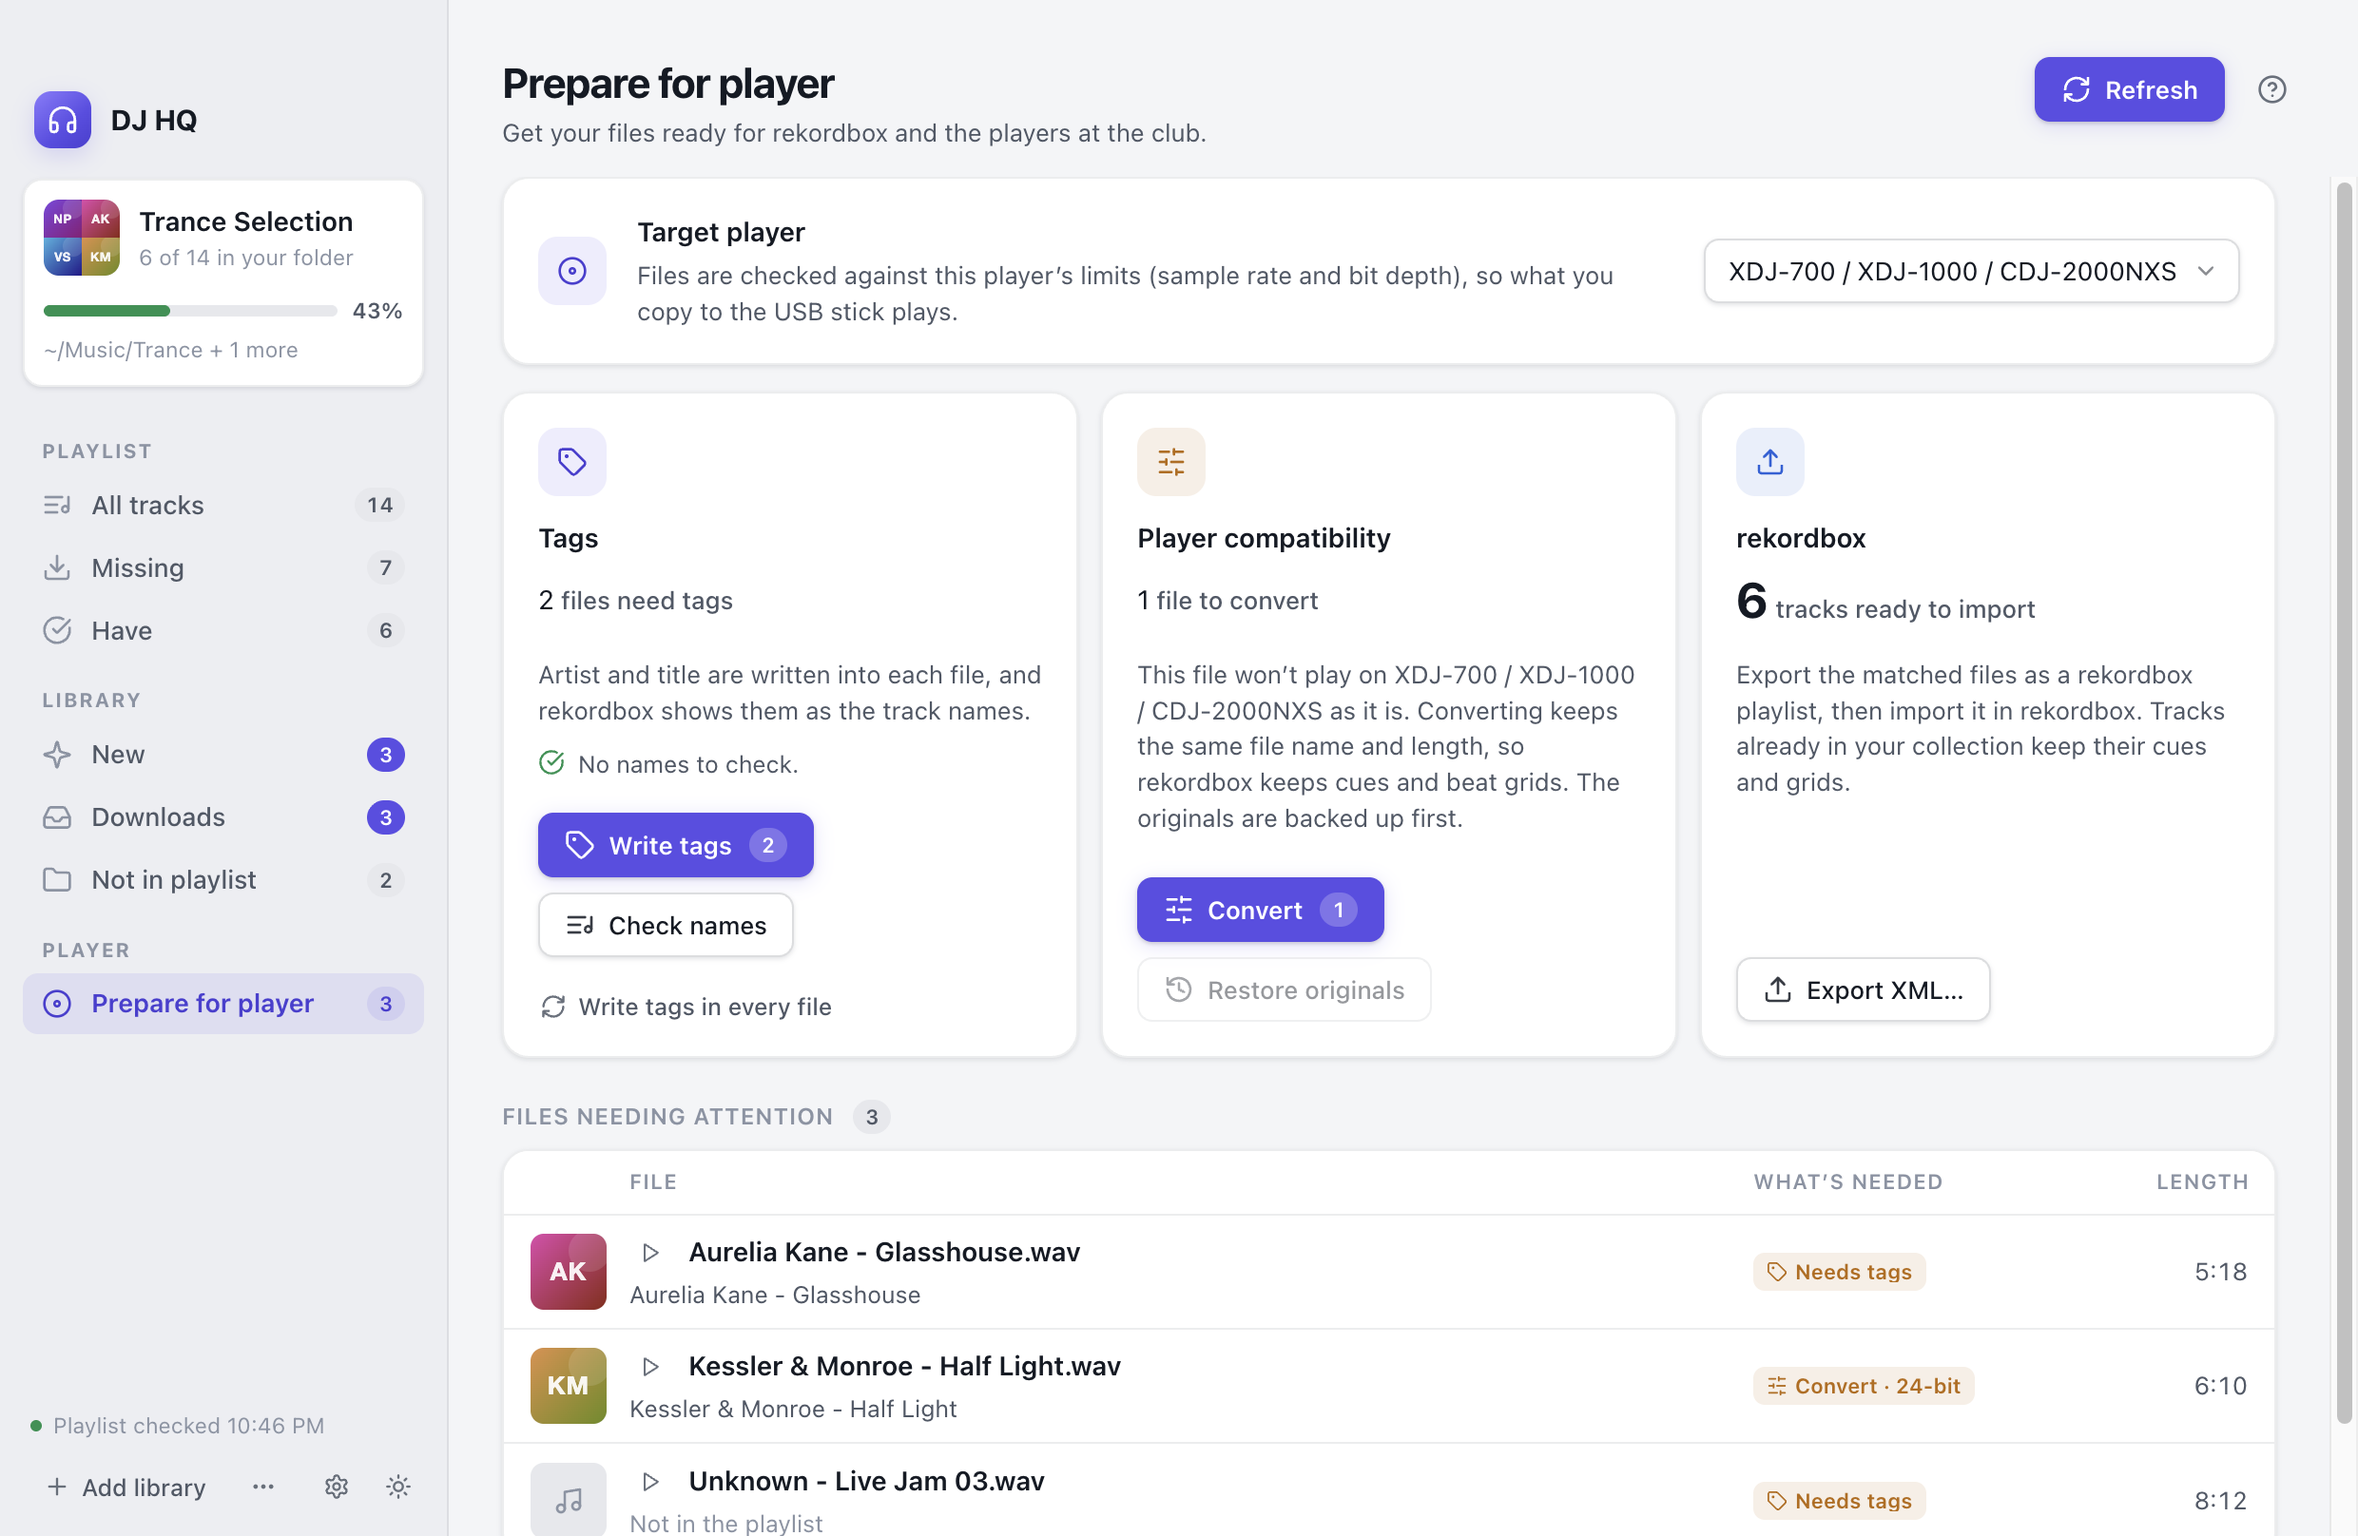
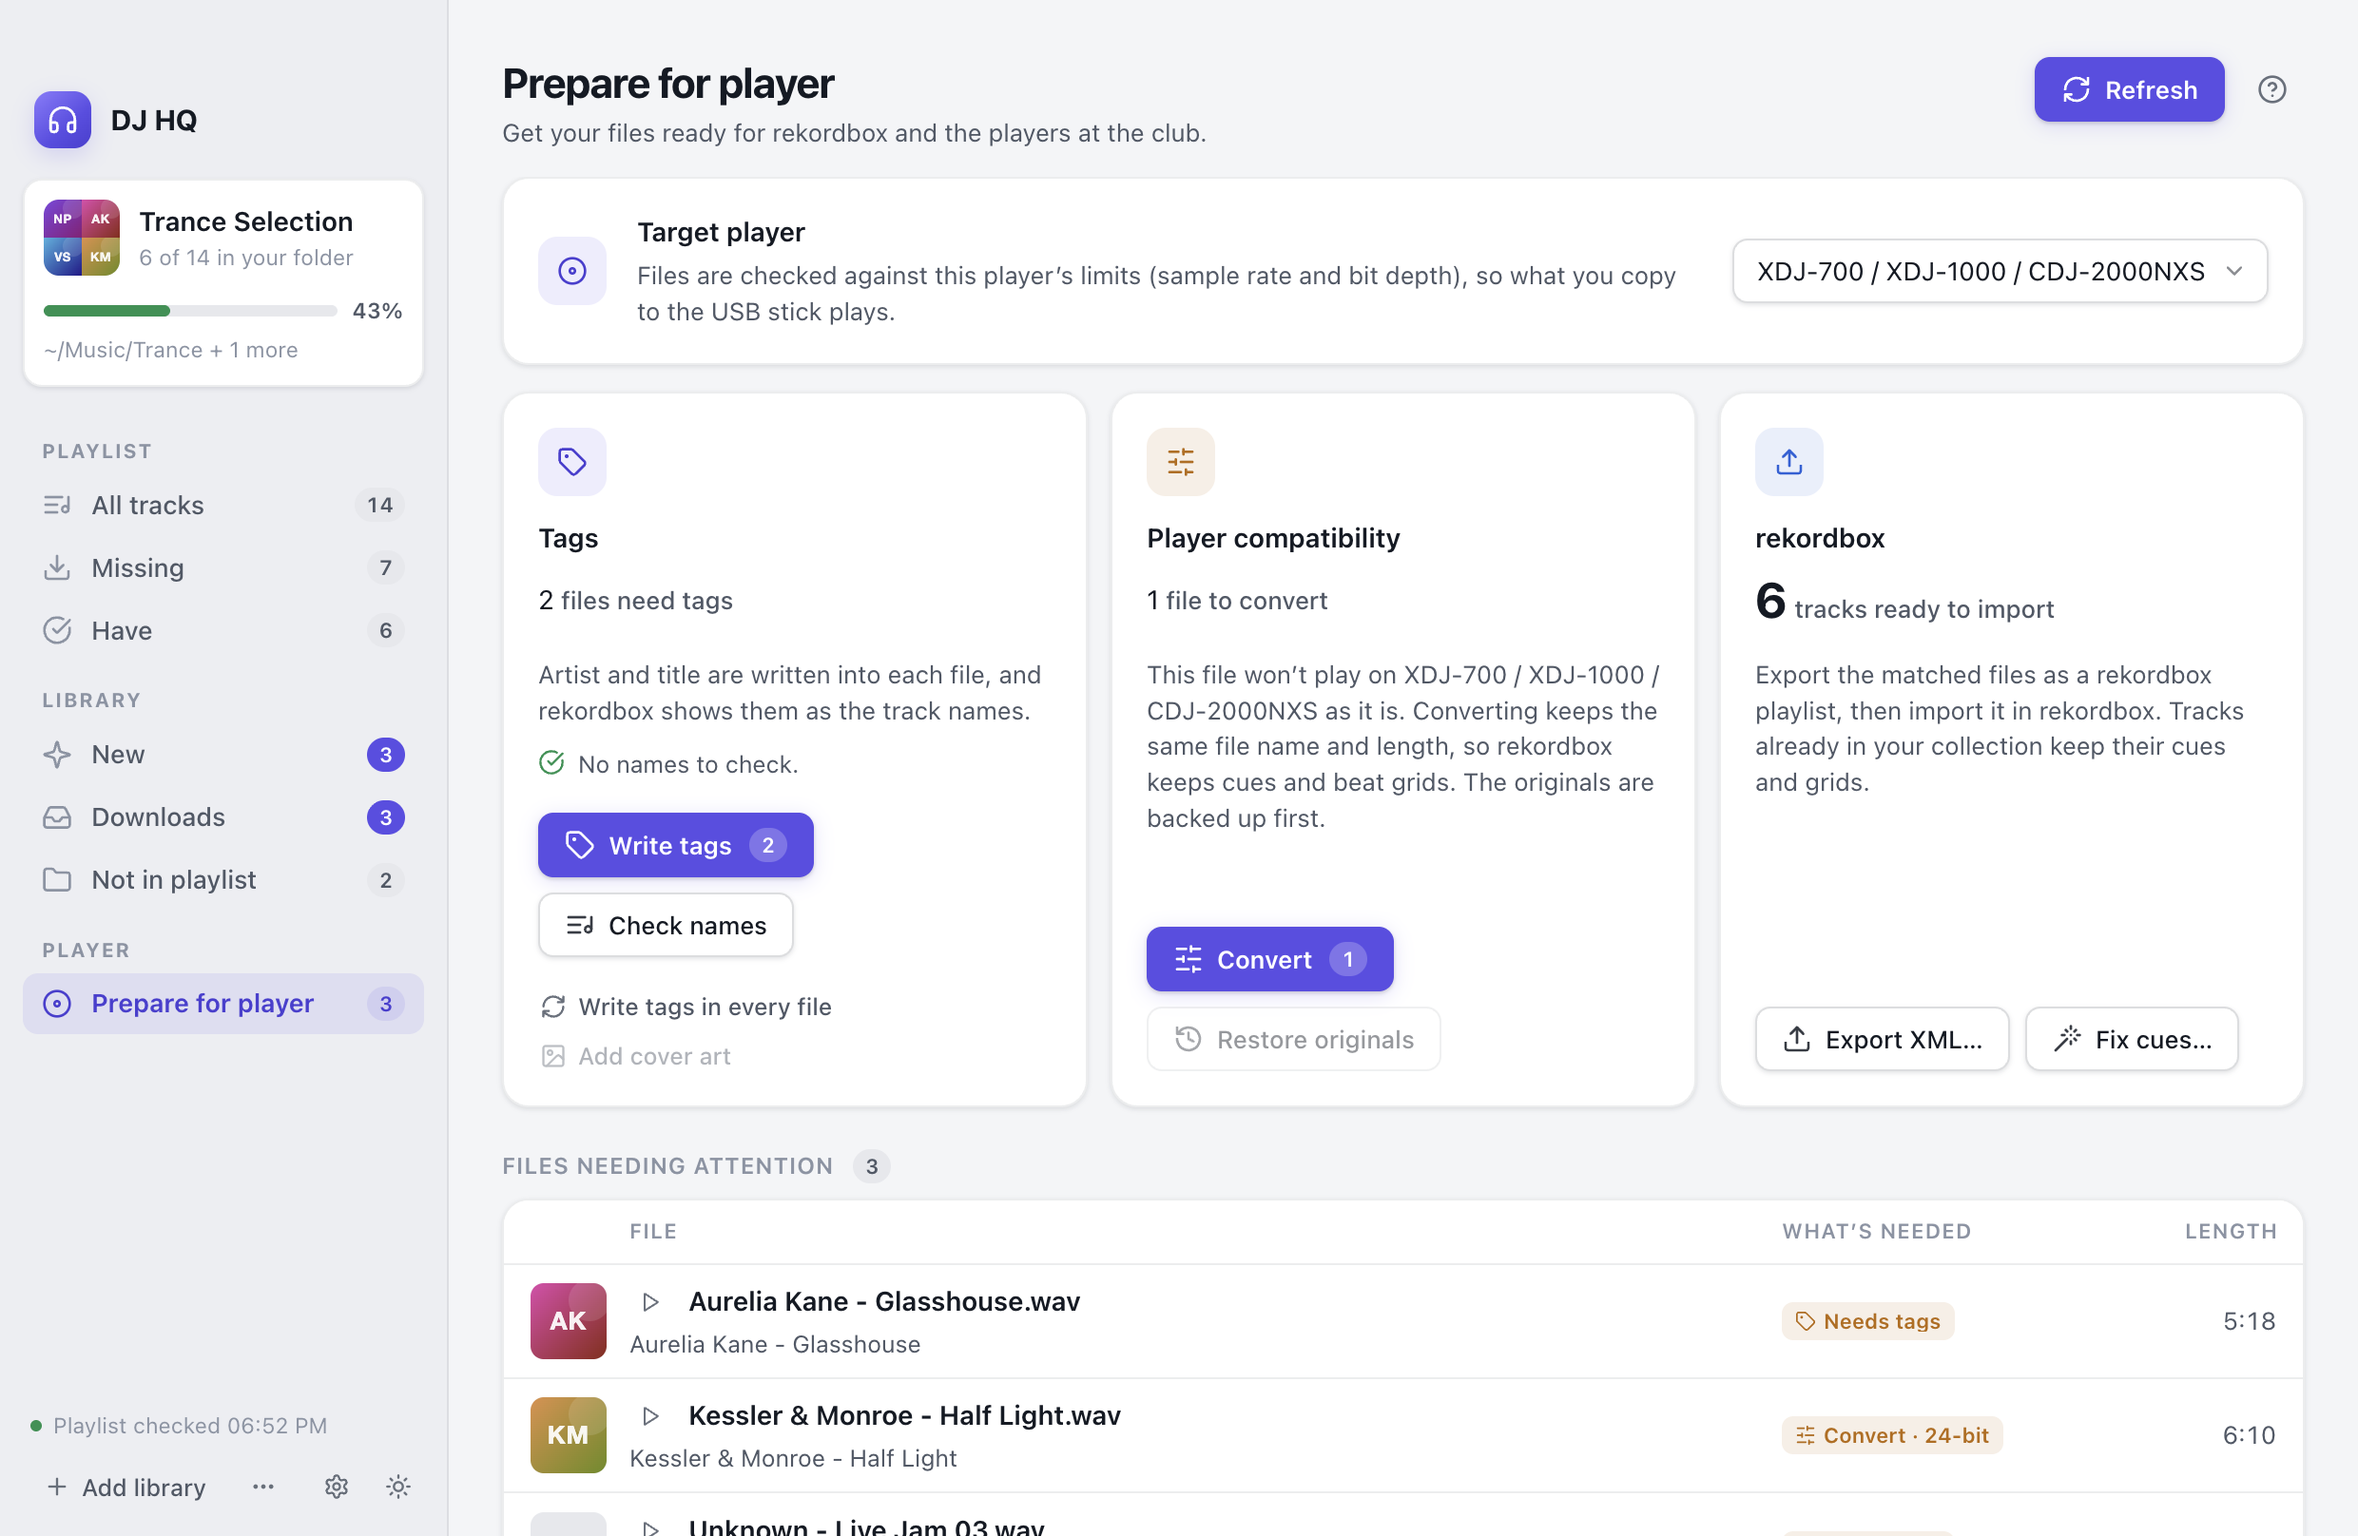
READMEs: N and P follow the list, the playing row, Fix cues; screenshots regenerated

diff --git a/README.pl.md b/README.pl.md
@@ -237,7 +237,9 @@ między utworami, N odkłada utwór jako niedostępny, Esc zamyka.
   ustawiony ręcznie.
 - **⋯** na końcu wiersza otwiera utwór na SoundCloud, kopiuje jego linki,
   ręcznie dopasowuje plik albo pozwala poprawić wykonawcę i tytuł.
-- Kliknij okładkę, żeby otworzyć utwór na SoundCloud.
+- Kliknij okładkę, żeby posłuchać utworu na SoundCloud bez opuszczania listy.
+  Wiersz grającego utworu jest zaznaczony, a `N` i `P` odtwarzają następny
+  i poprzedni utwór z listy (zobacz [Discover](#discover-soundcloud-w-aplikacji)).
 
 <p align="center"><img src="docs/screens/status-menu.png" width="420" alt="Menu statusu: Mam, Brak, Teraz niedostępny na SoundCloud albo powrót do automatycznego"></p>
 
@@ -312,7 +314,7 @@ tekstowym):
 | --- | --- |
 | `Spacja` | odtwórz / pauza |
 | `←` `→` | 10 sekund wstecz / do przodu |
-| `N` `P` | następny / poprzedni utwór w kolejce SoundCloud |
+| `N` `P` | następny / poprzedni utwór: na Discover w kolejce SoundCloud, a dla utworu uruchomionego z listy na liście widocznej na ekranie |
 | `A` | dodaj grający utwór do playlisty (w bibliotece polubień: do polubień) |
 | `L` | polub go / cofnij polubienie |
 
@@ -321,7 +323,11 @@ na dowolnej liście, a zacznie grać na SoundCloud, podczas gdy ty zostajesz na
 liście; pasek na dole okna pokazuje utwór z przyciskami odtwórz/pauza,
 poprzedni i następny, sercem i **Dodaj do playlisty**, a jego przycisk
 **Discover** otwiera stronę, na której jest utwór. Działają tam te same
-klawisze. Wyjście z Discover w trakcie odtwarzania nie przerywa muzyki,
+klawisze, a następny i poprzedni trzymają się listy, na którą patrzysz:
+wiersz grającego utworu jest zaznaczony, `N` odtwarza wiersz pod nim, a `P`
+wiersz nad nim, w kolejności, w jakiej lista jest teraz wyświetlona. Gdy tego
+utworu nie ma na stronie, przechodzą po kolejce SoundCloud.
+Wyjście z Discover w trakcie odtwarzania nie przerywa muzyki,
 a sterowanie przejmuje pasek; jego **×** pauzuje i ukrywa odtwarzanie. Menu
 **⋯** wiersza ma też **Odtwórz**, **Otwórz na Discover** i **Podobne utwory na
 Discover**. Mała strzałka, która pojawia się obok tytułu po najechaniu,
@@ -511,6 +517,14 @@ biorą twoje wartości.
    playlisty; ścieżka pliku się nie zmienia.
 
 <p align="center"><img src="docs/screens/export-dialog.png" width="480" alt="Okno eksportu ze ścieżką pliku i trzema krokami importu w rekordbox"></p>
+
+**Popraw cue…**, obok Eksportuj XML, jest dla punktów cue, które Mixed In Key
+zapisał w pliku XML rekordbox o jedno uderzenie za późno, na „2” taktu
+rekordbox. Porównuje je z siatkami bitów utworów, które rekordbox już
+przeanalizował, pokazuje, ile z nich się przesunie, i przesuwa każdy o jedno
+uderzenie wcześniej, na „1”. Punkty cue na innych uderzeniach zostają na
+miejscu, a plik sprzed zmiany zostaje obok. Potem zaimportuj utwory z węzła
+*rekordbox xml* jeszcze raz (*Import To Collection*, odpowiedz **Yes**).
 
 Lista **Pliki wymagające uwagi** poniżej pokazuje pliki, które wciąż wymagają
 tagów albo konwersji, każdy z okładką i przyciskiem odtwarzania.

diff --git a/README.md b/README.md
@@ -233,7 +233,9 @@ not available, Esc closes.
   undoes any manual status.
 - The **⋯** at the end of a row opens the track on SoundCloud, copies its
   links, matches a file by hand, or lets you fix the artist and title.
-- Click the artwork to open the track on SoundCloud.
+- Click the artwork to hear the track on SoundCloud without leaving the list.
+  The row of the playing track is marked, and `N` and `P` play the next and the
+  previous track of the list (see [Discover](#discover-soundcloud-inside-the-app)).
 
 <p align="center"><img src="docs/screens/status-menu.png" width="420" alt="The status menu: Have, Missing, Not available on SoundCloud now, or back to automatic"></p>
 
@@ -307,7 +309,7 @@ bar or the SoundCloud page (as long as you aren't typing in a field):
 | --- | --- |
 | `Space` | play / pause |
 | `←` `→` | 10 seconds back / forward |
-| `N` `P` | next / previous track in SoundCloud's queue |
+| `N` `P` | next / previous track: in SoundCloud's queue on Discover, in the list on screen for a track started from a list |
 | `A` | add the playing track to the playlist (to your Likes for a Likes library) |
 | `L` | like / unlike it |
 
@@ -315,7 +317,11 @@ Discover's player also serves the rest of the app. Click a track's cover on
 any list and it starts playing on SoundCloud while you stay on the list; a bar
 at the bottom of the window shows the track with play/pause, previous and
 next, the heart and **Add to playlist**, and its **Discover** button opens the
-page the track is on. The same keys work there. Leaving Discover while
+page the track is on. The same keys work there, and next and previous follow
+the list you are looking at: the row of the playing track is marked, `N` plays
+the row below it and `P` the row above, in the order the list shows right now.
+When that track is not on the page, they go through SoundCloud's own queue.
+Leaving Discover while
 something plays keeps it playing, and the bar takes over; its **×** pauses and
 hides it. The **⋯** menu of a row offers **Play**, **Open on Discover** and
 **Related tracks on Discover** as well. A small arrow that appears next to the
@@ -493,6 +499,14 @@ values.
    same.
 
 <p align="center"><img src="docs/screens/export-dialog.png" width="480" alt="The export dialog with the file path and the three rekordbox import steps"></p>
+
+**Fix cues…**, next to Export XML, is for cue points that Mixed In Key wrote
+into a rekordbox XML one beat late, on the 2 of rekordbox's bar. It compares
+them with the beatgrids of the tracks rekordbox has analysed, shows how many
+would move, and moves each of those one beat earlier, to the 1. Cue points on
+any other beat stay where they are, and the file as it was is kept next to it.
+Afterwards import the tracks from the *rekordbox xml* node again (*Import To
+Collection*, answer **Yes**).
 
 The **Files needing attention** list underneath shows the files that still
 need tags or conversion, each with its artwork and a play button.
